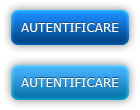
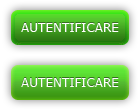
Changed blue tint of buttons and links to green

diff --git a/themes/dark_woods_2015/library/css/jquery.jscrollpane.css b/themes/dark_woods_2015/library/css/jquery.jscrollpane.css
@@ -44,7 +44,7 @@
 }
 
 .jspDrag {
-	background : #1470cc;
+	background : #55f25d;
 	cursor : pointer;
 	left : 0;
 	position : relative;
@@ -52,7 +52,7 @@
 }
 
 .jspDrag:hover {
-	background : #3399ff;
+	background : #c0f786;
 }
 
 .jspHorizontalBar .jspTrack, .jspHorizontalBar .jspDrag {

diff --git a/themes/dark_woods_2015/styles.css b/themes/dark_woods_2015/styles.css
@@ -43,17 +43,13 @@ body {
 }
 
 a {
-	color : #196cc2;
-	font-weight:200;
+	color : #55f25d;
+	font-weight:250;
 	text-decoration : none;
 }
 
 a:hover {
-	color : #1f85ee;
-}
-
-a:visited {
-	color : #145598;
+	color : #c0f786;
 }
 
 b, strong {

diff --git a/themes/dark_woods_2015/library/css/default.css b/themes/dark_woods_2015/library/css/default.css
@@ -421,6 +421,7 @@ img.profile-avatar {
 	text-transform : uppercase;
 	text-wrap : suppress;
 	width : 120px;
+	font-weight: bold;
 }
 
 .actions a:hover, a.button:hover, button:hover {
